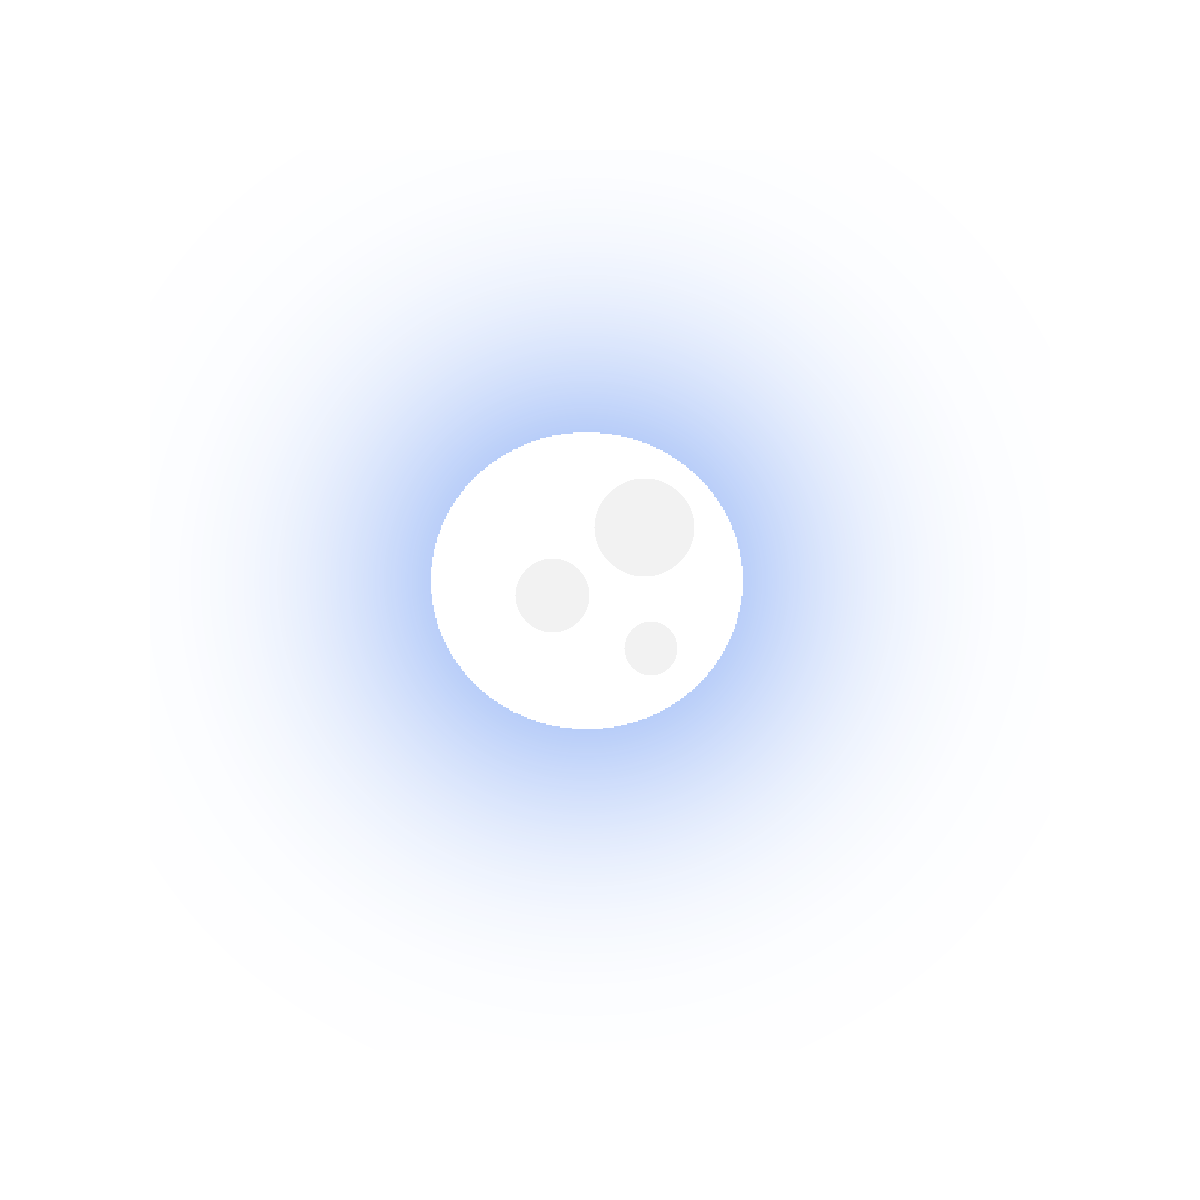
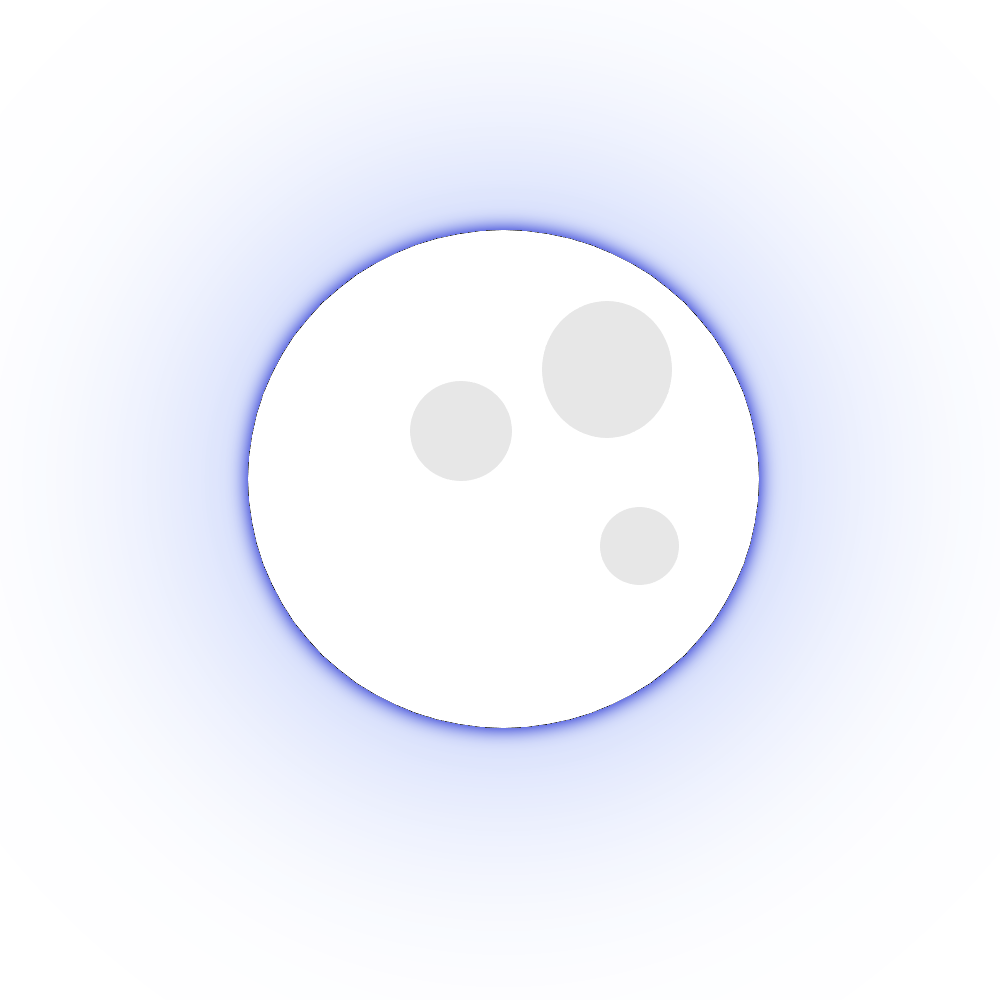
feat : splashscreen animation almost done

Changed region(s): [[0.217, 0.186, 0.806, 0.775]]

diff --git a/lib/features/main/application/widgets/background_animations/montain_and_tree_background.dart b/lib/features/main/application/widgets/background_animations/montain_and_tree_background.dart
@@ -1,3 +1,5 @@
+// ignore_for_file: prefer_const_constructors, prefer_const_literals_to_create_immutables
+
 import 'package:flutter/material.dart';
 
 class MontainAndTreeBackground extends StatefulWidget {
@@ -11,7 +13,7 @@ class MontainAndTreeBackground extends StatefulWidget {
 
 class MontainAndTreeBackgroundState extends State<MontainAndTreeBackground> {
   late final double screenWidth = MediaQuery.of(context).size.width;
-  late final double screenHeight = MediaQuery.of(context).size.width;
+  late final double screenHeight = MediaQuery.of(context).size.height;
 
   @override
   void initState() {
@@ -21,80 +23,131 @@ class MontainAndTreeBackgroundState extends State<MontainAndTreeBackground> {
   @override
   Widget build(BuildContext context) {
     return Stack(
-      alignment: Alignment.center,
       children: [
-        const Image(
-          fit: BoxFit.cover,
-          height: double.infinity,
-          width: double.infinity,
-          image: AssetImage(
-            'assets/backgrounds/sky.png',
+        // ? -- Gradient sky Background -- ? \\
+        Container(
+          width: screenWidth,
+          height: screenHeight * 4,
+          decoration: BoxDecoration(
+            image: DecorationImage(
+              fit: BoxFit.cover,
+              image: AssetImage(
+                'assets/backgrounds/gradient_sky.png',
+              ),
+            ),
           ),
         ),
-        // MOON IMAGE.
+
+        // ? -- Stars IMAGE -- ? \\
+        AnimatedPositioned(
+          duration: const Duration(milliseconds: 2500),
+          top: _currentYStarsPosition,
+          curve: Curves.fastOutSlowIn,
+          child: Image(
+            fit: BoxFit.fitHeight,
+            width: screenWidth,
+            image: const AssetImage('assets/backgrounds/stars_1.png'),
+          ),
+        ),
+
+        // ? -- MOON IMAGE -- ? \\
         AnimatedAlign(
-          duration: const Duration(milliseconds: 1500),
+          duration: const Duration(milliseconds: 2000),
           alignment: _currentMoonAlignment,
           curve: Curves.fastOutSlowIn,
           child: Image(
             fit: BoxFit.fill,
-            width: screenWidth / 1.1,
-            height: screenWidth / 1.1,
+            width: screenWidth / 1.5,
+            height: screenWidth / 1.5,
             image: const AssetImage('assets/backgrounds/moon.png'),
           ),
         ),
-        const Align(
-          alignment: Alignment.bottomCenter,
-          child: Padding(
+
+        // ? -- Third montains calc -- ? \\
+        Positioned(
+          bottom: 0,
+          child: AnimatedContainer(
+            duration: const Duration(milliseconds: 1000),
             padding: EdgeInsets.only(bottom: 100),
+            width: _currentThirdMountainWidth,
             child: Image(
+              fit: BoxFit.fitHeight,
               image: AssetImage(
                 'assets/backgrounds/3stMountain.png',
               ),
             ),
           ),
         ),
-        AnimatedAlign(
+
+        // ? -- Left cloud -- ? \\
+        AnimatedPositioned(
           duration: const Duration(milliseconds: 1500),
-          alignment: _currentLeftCloudsAlignment,
+          left: _currentXPositionCloud,
+          bottom: _currentYPositionCloud,
           curve: Curves.fastOutSlowIn,
           child: Image(
             fit: BoxFit.fitHeight,
-            width: MediaQuery.of(context).size.width / 1.1,
+            width: screenWidth - 10,
             opacity: const AlwaysStoppedAnimation(0.5),
-            image: const AssetImage('assets/backgrounds/leftclouds.png'),
+            image: const AssetImage('assets/backgrounds/left_clouds.png'),
           ),
         ),
-        AnimatedAlign(
+
+        // ? -- Right cloud -- ? \\
+        AnimatedPositioned(
           duration: const Duration(milliseconds: 1500),
-          alignment: _currentRightCloudsAlignment,
+          right: _currentXPositionCloud,
+          bottom: _currentYPositionCloud,
           curve: Curves.fastOutSlowIn,
           child: Image(
             fit: BoxFit.fitHeight,
-            width: MediaQuery.of(context).size.width / 1.1,
+            width: screenWidth - 10,
             opacity: const AlwaysStoppedAnimation(0.5),
-            image: const AssetImage('assets/backgrounds/rightclouds.png'),
+            image: const AssetImage('assets/backgrounds/right_clouds.png'),
           ),
         ),
-        const Align(
-          alignment: Alignment.bottomCenter,
-          child: Padding(
+
+        // ? -- secondMountain -- ? \\
+        Positioned(
+          bottom: 0,
+          left: 0,
+          child: AnimatedContainer(
+            duration: const Duration(milliseconds: 1500),
             padding: EdgeInsets.only(bottom: 50),
+            width: _currentSecondMountainWidth,
             child: Image(
+              fit: BoxFit.fitHeight,
               image: AssetImage('assets/backgrounds/2stMountain.png'),
             ),
           ),
         ),
-        const Align(
-          alignment: Alignment.bottomCenter,
-          child: Image(
-            image: AssetImage(
-              'assets/backgrounds/1stMountain.png',
+
+        // ? -- firstMountain -- ? \\
+        Positioned(
+          bottom: 0,
+          left: 0,
+          child: AnimatedContainer(
+            duration: const Duration(milliseconds: 2000),
+            width: _currentFirstMountainWidth,
+            child: Image(
+              fit: BoxFit.fitHeight,
+              image: AssetImage('assets/backgrounds/1stMountain.png'),
             ),
           ),
         ),
       ],
     );
+  }
+
+  double get _currentYStarsPosition {
+    switch (widget.currentState) {
+      case BackgroundAnimationState.start:
+        return -screenHeight;
+      case BackgroundAnimationState.middle:
+        return 0;
+      case BackgroundAnimationState.end:
+        return 0;
+    }
   }
 
   Alignment get _currentMoonAlignment {
@@ -104,29 +157,62 @@ class MontainAndTreeBackgroundState extends State<MontainAndTreeBackground> {
       case BackgroundAnimationState.middle:
         return const Alignment(0, -1);
       case BackgroundAnimationState.end:
-        return const Alignment(20, 0);
+        return const Alignment(0, -1);
     }
   }
 
-  Alignment get _currentLeftCloudsAlignment {
+  double get _currentThirdMountainWidth {
     switch (widget.currentState) {
       case BackgroundAnimationState.start:
-        return const Alignment(-20, 0);
+        return screenWidth + 100;
       case BackgroundAnimationState.middle:
-        return const Alignment(-1, 1);
+        return screenWidth;
       case BackgroundAnimationState.end:
-        return const Alignment(-20, 0);
+        return screenWidth;
     }
   }
 
-  Alignment get _currentRightCloudsAlignment {
+  double get _currentSecondMountainWidth {
     switch (widget.currentState) {
       case BackgroundAnimationState.start:
-        return const Alignment(20, 0);
+        return screenWidth + 200;
       case BackgroundAnimationState.middle:
-        return const Alignment(1, 1);
+        return screenWidth;
       case BackgroundAnimationState.end:
-        return const Alignment(20, 0);
+        return screenWidth;
+    }
+  }
+
+  double get _currentFirstMountainWidth {
+    switch (widget.currentState) {
+      case BackgroundAnimationState.start:
+        return screenWidth + 300;
+      case BackgroundAnimationState.middle:
+        return screenWidth;
+      case BackgroundAnimationState.end:
+        return screenWidth;
+    }
+  }
+
+  double get _currentXPositionCloud {
+    switch (widget.currentState) {
+      case BackgroundAnimationState.start:
+        return -screenWidth;
+      case BackgroundAnimationState.middle:
+        return 0;
+      case BackgroundAnimationState.end:
+        return 0;
+    }
+  }
+
+  double get _currentYPositionCloud {
+    switch (widget.currentState) {
+      case BackgroundAnimationState.start:
+        return 0;
+      case BackgroundAnimationState.middle:
+        return 0;
+      case BackgroundAnimationState.end:
+        return 0;
     }
   }
 }

diff --git a/lib/features/main/application/pages/splashscreen/splash_page.dart b/lib/features/main/application/pages/splashscreen/splash_page.dart
@@ -24,28 +24,30 @@ class SplashPageState extends ConsumerState<SplashPage> {
   Widget build(BuildContext context) {
     final currentAnimationState = ref.watch(controller.backgroundAnimationStateProvider);
 
-    return Scaffold(
-      body: Stack(
-        children: [
-          // Set here the animation, what should we do ? Flutter Animation ? Stack of images ? Gif ?
-          MontainAndTreeBackground(
-            currentState: currentAnimationState,
-          ),
-          // Clickable Screen.
-          GestureDetector(
-            onTap: () {
-              if (currentAnimationState != BackgroundAnimationState.end) {
-                controller.onScreenPress(context);
-              }
-            },
-          ),
-          // Petit texte du swag.
-          const Center(
-            child: Text('Toucher l\'écran'),
-          ),
-        ],
+    return SafeArea(
+      child: Scaffold(
+        body: Stack(
+          children: [
+            // Set here the animation, what should we do ? Flutter Animation ? Stack of images ? Gif ?
+            MontainAndTreeBackground(
+              currentState: currentAnimationState,
+            ),
+            // Clickable Screen.
+            GestureDetector(
+              onTap: () {
+                if (currentAnimationState != BackgroundAnimationState.end) {
+                  controller.onScreenPress(context);
+                }
+              },
+            ),
+            // Petit texte du swag.
+            const Center(
+              child: Text('Toucher l\'écran'),
+            ),
+          ],
+        ),
+        backgroundColor: nightGrey,
       ),
-      backgroundColor: nightGrey,
     );
   }
 }
